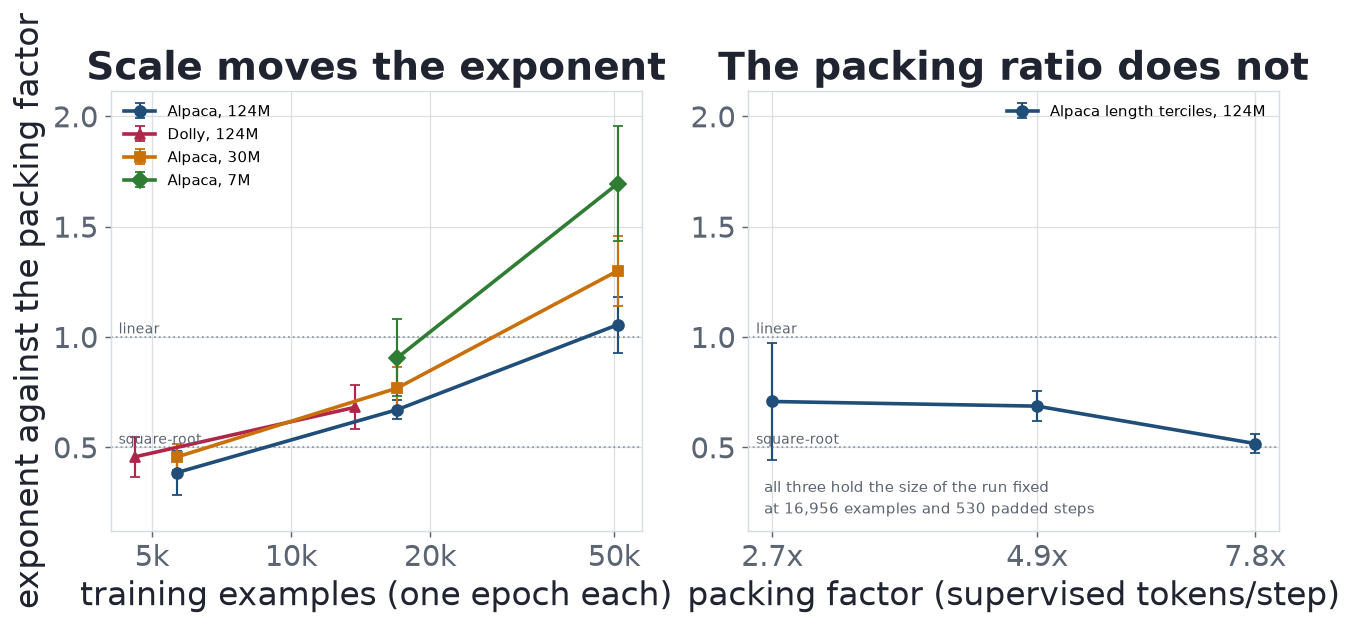
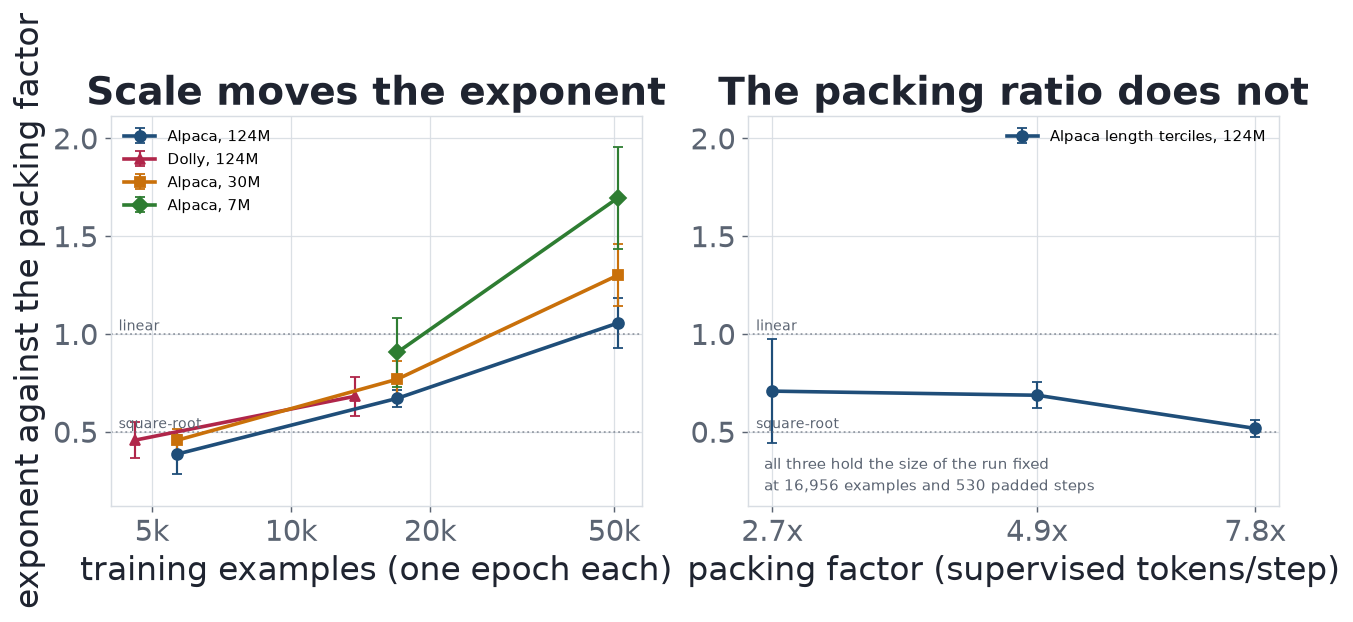
Fold the midpoint of the quality series into both papers, and the figure it completes
The 124M quality axis has three points now. Section 4.7.2 and section 5 both
said it had two, and both said so as a limit on what the control establishes.

What is added, and stated the way the scoring file states it: the midpoint reads
1.133 +/- 0.107 against a registered requirement to land below 1.178, so it
holds, but by 0.045 rather than by the 2.7x the extreme point cleared; the
registered point estimate of 1.00 was wrong; and the three estimates run 1.055,
1.133, 0.906, which is not monotone. No pair of the three separates -- 0.46x,
0.62x, 0.98x of their bounds -- so the claim is flatness at this resolution and
not a shape. The earlier registration's note that the midpoint "was not run" is
superseded in place rather than deleted.

Figure 09 gains the point it was drawn for: the 124M line now spans the whole
quality range these models cover and stays flat while the two smaller models sit
far above it at the same perplexities.

671 runs, 69.5 GPU-hours, regenerated into both versions.

The workshop version is back to nine content pages. Getting it there was not
prose: four rounds of cutting sentences moved the spill from 363 characters to
143 and then stopped, because a float was pinning the page break rather than the
text length. Shortening the bracket figure from 4.9in to 3.6in of canvas -- two
inches of page for thirteen rows that did not need them -- took it to zero.

diff --git a/paper/arxiv/main.tex b/paper/arxiv/main.tex
@@ -506,7 +506,8 @@ The confound is separable because the 124M pretraining run checkpointed every 50
 base model & perplexity & lr* padded & lr* packed & shift & exponent \\
 \midrule
 124M, step 20,000 & 23.5 & 2.81e-5 & 1.37e-4 & 4.86x & 1.055 $\pm$ 0.128 \\
-124M, step 500 & 107.0 & 1.12e-4 & 4.36e-4 & 3.88x & 0.906 $\pm$ 0.204 \\
+124M, step 2,500 & 39.4 & 5.22e-5 & 2.85e-4 & 5.46x & 1.133 $\pm$ 0.107 \\
+124M, step 500 & 107.0 & 1.12e-4 & 4.36e-4 & 3.89x & 0.906 $\pm$ 0.204 \\
 7M, final & 115.2 & 1.19e-4 & 1.51e-3 & 12.66x & 1.695 $\pm$ 0.261 \\
 \bottomrule
 \end{tabular}}
@@ -515,7 +516,9 @@ base model & perplexity & lr* padded & lr* packed & shift & exponent \\
 
 \textbf{The exponent tracks parameter count, not base-model quality.} At the 7M model's perplexity and the 124M model's parameter count it reads 0.906: 0.789 below 7M's 1.695, or 2.7x the registered margin, and 0.149 from the fully pretrained 124M model's own 1.055, against a combined bound of 0.241. Base-model quality was moved by a factor of 4.6 in perplexity and the exponent did not follow it; it stayed with the parameter count. H1 is confirmed on the criterion named in advance, and \S{}4.7's claim is a claim about model size.
 
-\textbf{It does move both optima, by three to four times.} The padded optimum rises 4.00x against the fully pretrained model and the packed one 3.20x. That is \S{}4.7.1's finding over a much longer range: a less well trained base model wants a larger fine-tuning rate in both arms, while the \emph{distance} between the arms --- the only quantity this paper measures --- is left where it was. The registration expected this and recorded in advance that it discriminates nothing between the two hypotheses, which it does not. It is reported because it is the practical half: a practitioner reading an optimum off this paper would be wrong by 4x if their base model were as undertrained as this one, while reading the \emph{shift} off it would not.
+\textbf{The middle of that range was then registered and run, and it holds there too.} \texttt{step\_\allowbreak{}2500}, at perplexity 39.4 against the 30M model's 38.0, was predicted in advance to land below 1.178 --- the midpoint of 124M's 1.055 and 30M's 1.300 --- and to leave the three-point series spanning no more than 0.332. It reads \textbf{1.133 $\pm$ 0.107} and the series spans 0.227, so both conditions hold, but the second number is the honest one to quote: it passes the side condition by 0.045, where the \texttt{step\_\allowbreak{}500} point cleared its margin by 2.7x. Two things are worth stating rather than smoothing. The registered point estimate was 1.00 and the measured value sits outside the 0.90--1.10 band that registration named. And the three point estimates run 1.055, 1.133, 0.906 as the base model gets worse, which is \textbf{not monotone}. What holds the reading up is that no pair of the three separates --- the gaps are 0.46x, 0.62x and 0.98x of their own combined bounds --- so the claim this section makes is that the exponent is flat across a 4.6-fold range of base-model perplexity to within the resolution of this study, and not that it rises and then falls. The widest of those gaps sits at 0.98x of its bound, which is as close to separating as a pair can come without doing so.
+
+\textbf{It does move both optima, by three to four times.} The padded optimum rises 4.00x against the fully pretrained model and the packed one 3.20x, and the midpoint sits between at 1.86x and 2.09x. That is \S{}4.7.1's finding over a much longer range: a less well trained base model wants a larger fine-tuning rate in both arms, while the \emph{distance} between the arms --- the only quantity this paper measures --- is left where it was. The registration expected this and recorded in advance that it discriminates nothing between the two hypotheses, which it does not. It is reported because it is the practical half: a practitioner reading an optimum off this paper would be wrong by 4x if their base model were as undertrained as this one, while reading the \emph{shift} off it would not.
 
 \begin{figure}[htbp]
 \centering
@@ -523,11 +526,11 @@ base model & perplexity & lr* padded & lr* packed & shift & exponent \\
 \caption{Left: the exponent against the base model's validation perplexity. The 124M series spans the whole quality range these three models cover and stays flat, while the 7M model sits at the same perplexity as its worst point and more than half an exponent above it. Right: the optima themselves, on the same axis. Both arms rise together as the base model gets worse -- by three to four times over this range -- while the distance between them, the only quantity this paper measures, is left where it was. Error bars are the seed bound of \S{}4.5; perplexities are read from each model's own pretraining log.}
 \end{figure}
 
-\textbf{What this does not settle}, all of it recorded in the registration before the runs existed. An early checkpoint of a large model is not a converged small one: at step 500 of 20,000 the weights are 2.5\% of the way through a cosine schedule, so matching on perplexity matches one number and not the state, and this is the main reason to read the result as evidence about the confound rather than as its dissolution. Perplexity is also one axis of quality among several, and the two models are matched on held-out FineWeb-Edu loss rather than on any downstream capability. And it is one corpus at one packing factor: the middle point of the series, \texttt{step\_\allowbreak{}2500} at perplexity 39.4 against the 30M model's 38.0, is unswept, so the quality axis has two points rather than three.
+\textbf{What this does not settle}, all of it recorded in the registration before the runs existed. An early checkpoint of a large model is not a converged small one: at step 500 of 20,000 the weights are 2.5\% of the way through a cosine schedule, so matching on perplexity matches one number and not the state, and this is the main reason to read the result as evidence about the confound rather than as its dissolution. Perplexity is also one axis of quality among several, and the two models are matched on held-out FineWeb-Edu loss rather than on any downstream capability. And it is one corpus at one packing factor. The axis now has three points rather than two, but three points an order of magnitude apart in perplexity, none of which separates from the others, constrain the \emph{shape} of the dependence hardly at all --- they establish that it is flat at this resolution, not that it is flat.
 
 \section{Threats to validity}
 
-\textbf{Model size was confounded with base-model quality, and the control has two points rather than three.} The three models differ in parameter count and in how well they model language --- perplexity 23.5, 38.0 and 115.2 --- so \S{}4.7's trend had a second reading in which the exponent tracked base-model quality instead. \S{}4.7.1 ruled that out across a small change in quality at fixed size, and \S{}4.7.2 across a factor of 4.6, at the extreme point where a 124M model is taken to the 7M model's perplexity: the exponent stays with the parameter count. What is left open is the shape rather than the direction. The middle point of the quality series is unswept, so the axis has two points; and an early checkpoint of a large model is not a converged small model, since matching on perplexity matches one number and not the state of the weights. We read \S{}4.7.2 as evidence about the confound rather than as its dissolution.
+\textbf{Model size was confounded with base-model quality, and the control has two points rather than three.} The three models differ in parameter count and in how well they model language --- perplexity 23.5, 38.0 and 115.2 --- so \S{}4.7's trend had a second reading in which the exponent tracked base-model quality instead. \S{}4.7.1 ruled that out across a small change in quality at fixed size, and \S{}4.7.2 across a factor of 4.6, at the extreme point where a 124M model is taken to the 7M model's perplexity: the exponent stays with the parameter count. What is left open is the shape rather than the direction. The middle point of the quality series has since been registered and run and it agrees, so the axis has three points; but none of the three separates from the others, so they bound the dependence rather than describing it. And an early checkpoint of a large model is not a converged small model, since matching on perplexity matches one number and not the state of the weights. We read \S{}4.7.2 as evidence about the confound rather than as its dissolution.
 
 \textbf{Three model sizes, two source corpora, and a ratio axis built by subsetting them.} Most numbers come from a 124M model; \S{}4.7 repeats the scale series at 30M and 7M, which makes the model-size axis three points about 4x apart. That is a direction rather than a curve: the ordering is consistent across all six pairwise comparisons, but only the 17x extreme on the whole corpus separates from its seed bound, and three points cannot distinguish the shape of the dependence from a straight line through them. All three sizes are far below any model that would be fine-tuned in practice.
 
@@ -797,7 +800,7 @@ python scripts/plot_results.py --only lr-scaling
 
 \texttt{scripts/\allowbreak{}analyze\_\allowbreak{}lr\_\allowbreak{}scaling.py} is the single place the optima are solved: it fits the parabola of 3.3, keeps each seed's curve separate for the reason in 3.1, drops a seed whose curve brackets no minimum, and excludes cells past 1.5 epochs from the headline for the reason in Appendix B. The tables in \S{}4.1 and the ratios in \S{}4.2 are its output rather than transcriptions of it.
 
-Hardware is a single RTX 2080 Ti per run, and the whole grid is about 63 GPU-hours (measured across the 647 runs that recorded wall time; 2 rows carry no wall time, having been harvested from earlier runs of the same configs). One caveat for anyone reproducing the schedule estimate rather than the science: the second card in this machine thermally throttles under sustained load and takes about 2.5x as long per step, which the sweep's planner accounts for and a naive divide-by-GPU-count does not.
+Hardware is a single RTX 2080 Ti per run, and the whole grid is about 69 GPU-hours (measured across the 669 runs that recorded wall time; 2 rows carry no wall time, having been harvested from earlier runs of the same configs). One caveat for anyone reproducing the schedule estimate rather than the science: the second card in this machine thermally throttles under sustained load and takes about 2.5x as long per step, which the sweep's planner accounts for and a naive divide-by-GPU-count does not.
 
 \section{The full loss grids}
 
@@ -873,6 +876,7 @@ base model & corpus & examples & \texttt{p} & lr* padded & lr* packed & shift & 
 30M @ 19.7 tok/param & Alpaca, whole & 50,868 & 4.47x & 5.06e-05 & 3.56e-04 & 7.03x & \textbf{1.302 $\pm$ 0.119} & 3 \\
 7M @ 18.0 tok/param & Alpaca, random third & 16,956 & 4.51x & 2.73e-04 & 1.04e-03 & 3.80x & \textbf{0.886 $\pm$ 0.201} & 3 \\
 7M @ 18.0 tok/param & Alpaca, whole & 50,868 & 4.47x & 2.19e-04 & 2.38e-03 & 10.85x & \textbf{1.592 $\pm$ 0.333} & 3 \\
+124M @ perplexity 39.4 & Alpaca, whole & 50,868 & 4.47x & 5.22e-05 & 2.85e-04 & 5.46x & \textbf{1.133 $\pm$ 0.107} & 3 \\
 124M @ perplexity 107 & Alpaca, whole & 50,868 & 4.47x & 1.12e-04 & 4.36e-04 & 3.88x & \textbf{0.906 $\pm$ 0.204} & 3 \\
 \bottomrule
 \end{tabular}}

diff --git a/ashugpt/viz/figures.py b/ashugpt/viz/figures.py
@@ -558,7 +558,7 @@ def lr_scaling_regime() -> Path:
 
     # Drawn large and typeset small; see style.paper_text().
     with paper_text():
-        fig, (left, right) = plt.subplots(1, 2, figsize=(11.6, 4.4))
+        fig, (left, right) = plt.subplots(1, 2, figsize=(11.6, 3.9))
 
         series: dict[tuple[str, str], list] = {}
         for r in rows:
@@ -707,7 +707,7 @@ def lr_scaling_quality() -> Path:
 
     # Drawn large and typeset small; see style.paper_text().
     with paper_text():
-        fig, (left, right) = plt.subplots(1, 2, figsize=(11.6, 4.4))
+        fig, (left, right) = plt.subplots(1, 2, figsize=(11.6, 3.9))
 
         for family in ("124M", "30M", "7M"):
             pts = sorted((p for p in points if p["family"] == family),
@@ -832,7 +832,7 @@ def lr_scaling_bracket() -> Path:
     # taller aspect costs two-thirds of a page, and thirteen rows do not need it.
     # Drawn large and typeset small; see style.paper_text().
     with paper_text():
-        fig, ax = plt.subplots(figsize=(10.4, 4.9))
+        fig, ax = plt.subplots(figsize=(10.4, 3.6))
         y = list(range(len(items)))
 
         for i, d in enumerate(items):

diff --git a/paper/paper.md b/paper/paper.md
@@ -1,6 +1,6 @@
 # Does Sequence Packing Change the Optimal Learning Rate?
 
-**Status: draft, complete, <!--runs-->649 runs (342 at 124M, 84 at 30M, 59 at 30M at the matched budget, 70 at 7M, 55 at 7M at the matched budget, 10 at 124M grid extension, 29 at 124M at the 7M model's quality)<!--/runs--> in the
+**Status: draft, complete, <!--runs-->671 runs (342 at 124M, 84 at 30M, 59 at 30M at the matched budget, 70 at 7M, 55 at 7M at the matched budget, 10 at 124M grid extension, 29 at 124M at the 7M model's quality, 22 at 124M at perplexity 39.4)<!--/runs--> in the
 ledger. Every cell carries a full grid and every cell the paper rests on is
 seed-replicated — three seeds throughout, bar the two curves Appendix C records
 as dropped — and all five registered predictions are scored. Remaining: an
@@ -995,7 +995,8 @@ being the combined seed bound §4.7 already reports for the pair.
 | base model | perplexity | lr* padded | lr* packed | shift | exponent |
 | --- | ---: | ---: | ---: | ---: | ---: |
 | 124M, step 20,000 | 23.5 | 2.81e-5 | 1.37e-4 | 4.86x | 1.055 ± 0.128 |
-| 124M, step 500 | 107.0 | 1.12e-4 | 4.36e-4 | 3.88x | 0.906 ± 0.204 |
+| 124M, step 2,500 | 39.4 | 5.22e-5 | 2.85e-4 | 5.46x | 1.133 ± 0.107 |
+| 124M, step 500 | 107.0 | 1.12e-4 | 4.36e-4 | 3.89x | 0.906 ± 0.204 |
 | 7M, final | 115.2 | 1.19e-4 | 1.51e-3 | 12.66x | 1.695 ± 0.261 |
 
 **The exponent tracks parameter count, not base-model quality.** At the 7M
@@ -1006,8 +1007,26 @@ quality was moved by a factor of 4.6 in perplexity and the exponent did not
 follow it; it stayed with the parameter count. H1 is confirmed on the criterion
 named in advance, and §4.7's claim is a claim about model size.
 
+**The middle of that range was then registered and run, and it holds there too.**
+`step_2500`, at perplexity 39.4 against the 30M model's 38.0, was predicted in
+advance to land below 1.178 — the midpoint of 124M's 1.055 and 30M's 1.300 — and
+to leave the three-point series spanning no more than 0.332. It reads **1.133 ±
+0.107** and the series spans 0.227, so both conditions hold, but the second
+number is the honest one to quote: it passes the side condition by 0.045, where
+the `step_500` point cleared its margin by 2.7x. Two things are worth stating
+rather than smoothing. The registered point estimate was 1.00 and the measured
+value sits outside the 0.90–1.10 band that registration named. And the three
+point estimates run 1.055, 1.133, 0.906 as the base model gets worse, which is
+**not monotone**. What holds the reading up is that no pair of the three
+separates — the gaps are 0.46x, 0.62x and 0.98x of their own combined bounds — so
+the claim this section makes is that the exponent is flat across a 4.6-fold range
+of base-model perplexity to within the resolution of this study, and not that it
+rises and then falls. The widest of those gaps sits at 0.98x of its bound, which
+is as close to separating as a pair can come without doing so.
+
 **It does move both optima, by three to four times.** The padded optimum rises
-4.00x against the fully pretrained model and the packed one 3.20x. That is
+4.00x against the fully pretrained model and the packed one 3.20x, and the
+midpoint sits between at 1.86x and 2.09x. That is
 §4.7.1's finding over a much longer range: a less well trained base model wants
 a larger fine-tuning rate in both arms, while the *distance* between the arms —
 the only quantity this paper measures — is left where it was. The registration
@@ -1035,9 +1054,11 @@ so matching on perplexity matches one number and not the state, and this is the
 main reason to read the result as evidence about the confound rather than as its
 dissolution. Perplexity is also one axis of quality among several, and the two
 models are matched on held-out FineWeb-Edu loss rather than on any downstream
-capability. And it is one corpus at one packing factor: the middle point of the
-series, `step_2500` at perplexity 39.4 against the 30M model's 38.0, is
-unswept, so the quality axis has two points rather than three.
+capability. And it is one corpus at one packing factor. The axis now has
+three points rather than two, but three points an order of magnitude apart in
+perplexity, none of which separates from the others, constrain the *shape* of
+the dependence hardly at all — they establish that it is flat at this
+resolution, not that it is flat.
 
 
 ## 5. Threats to validity
@@ -1051,9 +1072,11 @@ a second reading in which the exponent tracked base-model quality instead.
 across a factor of 4.6, at the extreme point where a 124M model is taken to the
 7M model's perplexity: the exponent stays with the parameter count. What is left
 open is the shape rather than the direction. The middle point of the quality
-series is unswept, so the axis has two points; and an early checkpoint of a large
-model is not a converged small model, since matching on perplexity matches one
-number and not the state of the weights. We read §4.7.2 as evidence about the
+series has since been registered and run and it agrees, so the axis has
+three points; but none of the three separates from the others, so they bound the
+dependence rather than describing it. And an early checkpoint of a large model is
+not a converged small model, since matching on perplexity matches one number and
+not the state of the weights. We read §4.7.2 as evidence about the
 confound rather than as its dissolution.
 
 **Three model sizes, two source corpora, and a ratio axis built by subsetting
@@ -1607,7 +1630,7 @@ epochs from the headline for the reason in Appendix B. The tables in §4.1 and t
 ratios in §4.2 are its output rather than transcriptions of it.
 
 Hardware is a single RTX 2080 Ti per run, and the whole grid is
-<!--compute-->about 63 GPU-hours (measured across the 647 runs that recorded wall time; 2 rows carry no wall time, having been harvested from earlier runs of the same configs)<!--/compute-->. One caveat for anyone reproducing the schedule estimate rather than the science:
+<!--compute-->about 69 GPU-hours (measured across the 669 runs that recorded wall time; 2 rows carry no wall time, having been harvested from earlier runs of the same configs)<!--/compute-->. One caveat for anyone reproducing the schedule estimate rather than the science:
 the second card in this machine thermally throttles under sustained load and
 takes about 2.5x as long per step, which the sweep's planner accounts for and a
 naive divide-by-GPU-count does not.
@@ -1680,6 +1703,7 @@ through that ratio, so it is a range and not a standard error (§4.5).
 | 30M @ 19.7 tok/param | Alpaca, whole | 50,868 | 4.47x | 5.06e-05 | 3.56e-04 | 7.03x | **1.302 ± 0.119** | 3 |
 | 7M @ 18.0 tok/param | Alpaca, random third | 16,956 | 4.51x | 2.73e-04 | 1.04e-03 | 3.80x | **0.886 ± 0.201** | 3 |
 | 7M @ 18.0 tok/param | Alpaca, whole | 50,868 | 4.47x | 2.19e-04 | 2.38e-03 | 10.85x | **1.592 ± 0.333** | 3 |
+| 124M @ perplexity 39.4 | Alpaca, whole | 50,868 | 4.47x | 5.22e-05 | 2.85e-04 | 5.46x | **1.133 ± 0.107** | 3 |
 | 124M @ perplexity 107 | Alpaca, whole | 50,868 | 4.47x | 1.12e-04 | 4.36e-04 | 3.88x | **0.906 ± 0.204** | 3 |
 <!--/exponents-->
 

diff --git a/paper/workshop.md b/paper/workshop.md
@@ -406,8 +406,8 @@ sits above a third of it by more than the combined seed bound: 2.8x at 124M,
 2.9x at 30M, 2.5x at 7M; against a ninth, 4.1x and 5.0x. The 30M case was
 registered while the 30M pretraining run was still going, committing to
 direction plus margin -- that Alpaca's exponent would exceed its third's by
-more than 0.135. The measured gap is 0.531.
-This is the paper's most repeated result and the one we would defend hardest.
+more than 0.135. The measured gap is 0.531, and this is the
+paper's most repeated result.
 
 **Model size moves the exponent across the full span, but not between adjacent
 sizes.** Every point estimate is ordered the same way — all six pairs put the
@@ -445,10 +445,16 @@ model's perplexity and the 124M model's parameter count it reads 0.906: 0.789
 below 7M's 1.695, or 2.7x the registered margin, and 0.149 from the fully
 pretrained 124M model's own 1.055 against a combined bound of 0.241. Base-model
 quality was moved by a factor of 4.6 in perplexity and the exponent did not
-follow it. H1 is confirmed on the criterion named in advance.
+follow it. H1 is confirmed on the criterion named in advance, and the middle of
+that range — `step_2500` at perplexity 39.4 — was registered separately and holds
+too, at **1.133 ± 0.107** against a requirement to land below 1.178. It passes by
+0.045 rather than by the extreme point's 2.7x, and the three estimates (1.055,
+1.133, 0.906) are not monotone; no pair of them separates, at 0.46x to 0.98x of
+their bounds, so what the axis establishes is flatness at this resolution rather
+than a shape.
 
 **It does move both optima, by three to four times** — the padded optimum rises
-4.00x and the packed one 3.20x. That is §4.7.1's finding over a much longer
+4.00x and the packed one 3.20x, with the midpoint between at 1.86x and 2.09x. That is §4.7.1's finding over a much longer
 range, and the registration expected it and recorded in advance that it
 discriminates nothing between the two hypotheses. It is the practical half: a
 practitioner reading an *optimum* off this paper would be wrong by 4x if their
@@ -527,11 +533,8 @@ step fixed holds the optimum fixed. The failure mode this paper documents is the
 other practice — keep the batch, keep the rate, take the throughput — which is
 what turning a `packing=True` flag on gives a practitioner by default. The two
 recipes differ by a factor of `p` in supervised tokens per step, and that factor
-is the entire effect.
-
-**Bracket against supervised tokens per step, not windows.** §4.4 is what makes
-the packing factor the right variable, and the two differ by more than they look —
-4.47x against 4.53x on Alpaca, 2.92x against 3.16x on Dolly.
+is the entire effect, computed from supervised tokens per step and not from the
+ratio of windows (4.47x against 4.53x on Alpaca).
 
 **Retune, and sweep rather than scale.** An earlier draft offered a bracket:
 look for the packed optimum inside `[lr_pad * sqrt(p), lr_pad * 1.2p]`. It held
@@ -581,17 +584,15 @@ to 12.7x across the settings measured here, and on several of them a packed run
 at the inherited rate does not beat the padded run it inherited from. What
 packing is doing is settled as far as this evidence goes -- the same batch
 assembled by padding, at several times the forward-pass cost, reaches the same
-optimum -- which is also why Krell et al.'s original recipe, shrinking the batch
-by the packing factor, needs no learning-rate change. It is packing to make the
-step *bigger* that is exposed. How much the optimum moves is not settled, and we
-think it is not settleable in the form the question is usually asked: the
-exponent runs 0.39 to 1.70, rises with the scale of the run and as the model
-shrinks, and is indifferent to how well the base model was pretrained. A bracket
-we proposed in an earlier draft fails on five of thirteen settings and is
-retracted here rather than quietly dropped. What would move this forward is not
-more seeds but model sizes above 124M, corpora drawn independently, batches near
-production scale, and a downstream metric beside held-out loss. Until then, the
-sweep in §6.
+optimum -- which is why Krell et al.'s recipe needs no learning-rate change and
+packing to make the step *bigger* is what is exposed. How much the optimum moves
+is not settled, and we think it is not settleable in
+the form the question is usually asked: the exponent runs 0.39 to 1.70, rises
+with the scale of the run and as the model shrinks, and is indifferent to how
+well the base model was pretrained. A bracket we proposed in an earlier draft
+fails on five of thirteen settings and is retracted here rather than quietly
+dropped. What would move this forward is model sizes above 124M, corpora drawn
+independently, and batches near production scale. Until then, the sweep in §6.
 
 ## References
 
@@ -877,7 +878,7 @@ epochs from the headline for the reason in Appendix B. The tables in §4.1 and t
 ratios in §4.2 are its output rather than transcriptions of it.
 
 Hardware is a single RTX 2080 Ti per run, and the whole grid is
-<!--compute-->about 63 GPU-hours (measured across the 647 runs that recorded wall time; 2 rows carry no wall time, having been harvested from earlier runs of the same configs)<!--/compute-->. One caveat for anyone reproducing the schedule estimate rather than the science:
+<!--compute-->about 69 GPU-hours (measured across the 669 runs that recorded wall time; 2 rows carry no wall time, having been harvested from earlier runs of the same configs)<!--/compute-->. One caveat for anyone reproducing the schedule estimate rather than the science:
 the second card in this machine thermally throttles under sustained load and
 takes about 2.5x as long per step, which the sweep's planner accounts for and a
 naive divide-by-GPU-count does not.
@@ -958,6 +959,7 @@ through that ratio, so it is a range and not a standard error (§4.5).
 | 30M @ 19.7 tok/param | Alpaca, whole | 50,868 | 4.47x | 5.06e-05 | 3.56e-04 | 7.03x | **1.302 ± 0.119** | 3 |
 | 7M @ 18.0 tok/param | Alpaca, random third | 16,956 | 4.51x | 2.73e-04 | 1.04e-03 | 3.80x | **0.886 ± 0.201** | 3 |
 | 7M @ 18.0 tok/param | Alpaca, whole | 50,868 | 4.47x | 2.19e-04 | 2.38e-03 | 10.85x | **1.592 ± 0.333** | 3 |
+| 124M @ perplexity 39.4 | Alpaca, whole | 50,868 | 4.47x | 5.22e-05 | 2.85e-04 | 5.46x | **1.133 ± 0.107** | 3 |
 | 124M @ perplexity 107 | Alpaca, whole | 50,868 | 4.47x | 1.12e-04 | 4.36e-04 | 3.88x | **0.906 ± 0.204** | 3 |
 <!--/exponents-->
 

diff --git a/results/registered-prediction-size-vs-quality.md b/results/registered-prediction-size-vs-quality.md
@@ -172,6 +172,14 @@ did.
 which is recorded in §4.7.2 and in §5 as a limit on the shape rather than on
 the direction.
 
+> **Superseded 2026-08-30.** It was run, under its own registration in
+> `results/registered-prediction-quality-midpoint.md`, and it agrees: 1.133 ±
+> 0.107 against a registered requirement to land below 1.178. The axis has three
+> points. Two caveats that file records and this one should not hide: the pass is
+> by 0.045 rather than by a wide margin, and the three point estimates are not
+> monotone. No pair of the three separates, so what the axis establishes is
+> flatness at this resolution rather than a shape.
+
 ## What was learned that was not predicted
 
 That the quality axis and the pretraining-budget axis of §4.7.1 behave the same

diff --git a/README.md b/README.md
@@ -25,7 +25,7 @@
 | **Validation** | loss 3.1583 · perplexity 23.53 |
 | **Stages** | pretrain → instruction tune → **chat** *and* **preference (DPO)** |
 | **Hardware** | ~27 h on **one** RTX 2080 Ti · a second card is what DDP and FSDP were measured on |
-| **Tests** | 484, CPU-only, run on every push |
+| **Tests** | 486, CPU-only, run on every push |
 
 </div>
 
@@ -2448,7 +2448,7 @@ authLLM/
 ## 17. Testing
 
 <details>
-<summary><b>Expand</b> — what the 484 tests actually assert</summary>
+<summary><b>Expand</b> — what the 486 tests actually assert</summary>
 
 ```
 pytest                    # everything
